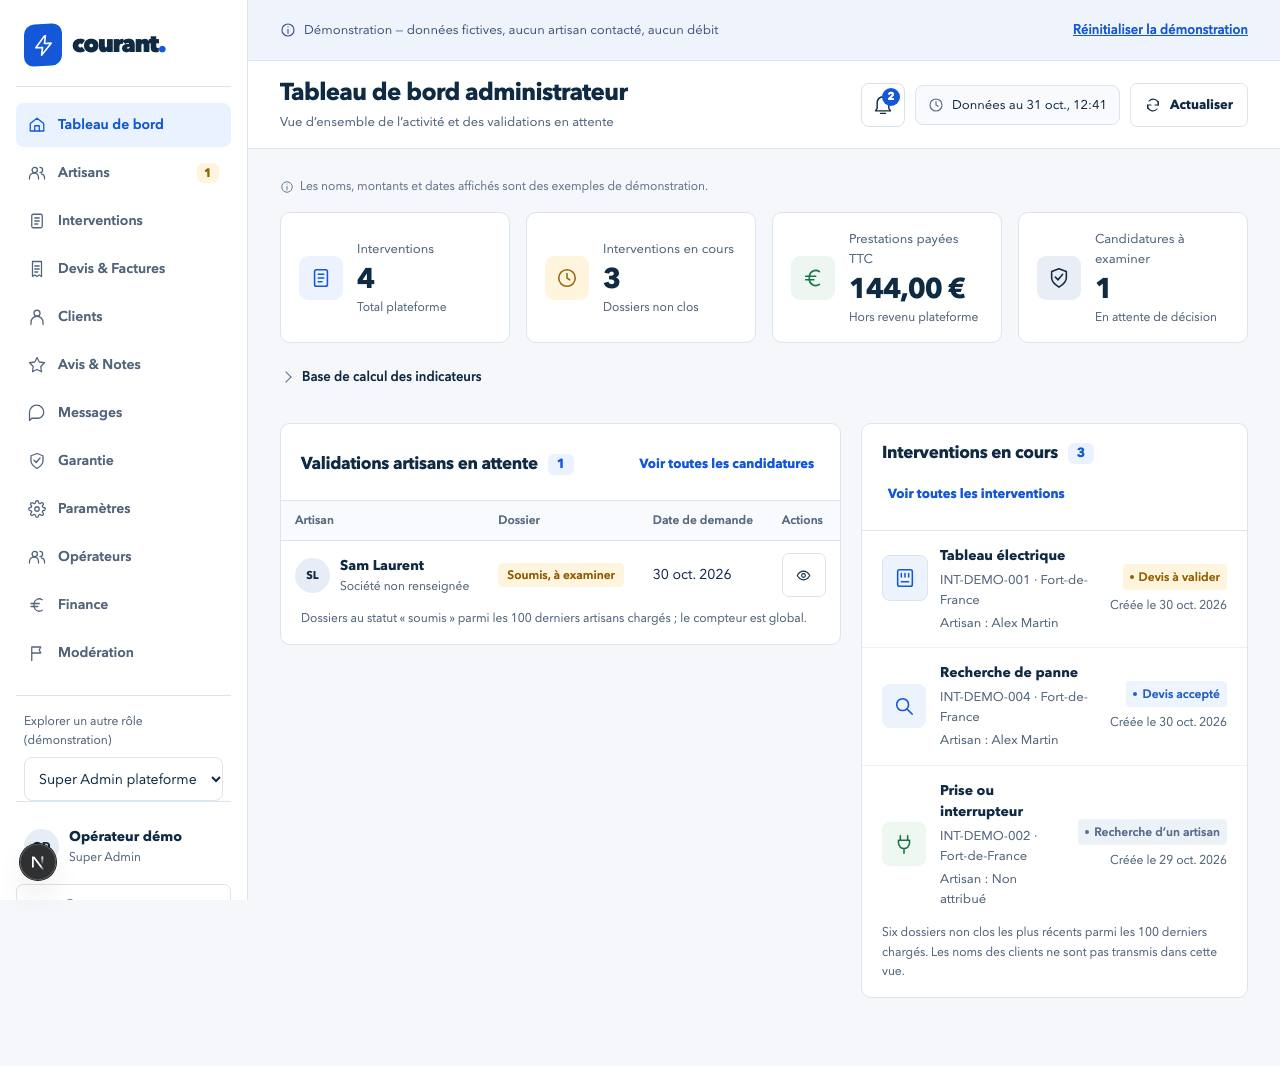
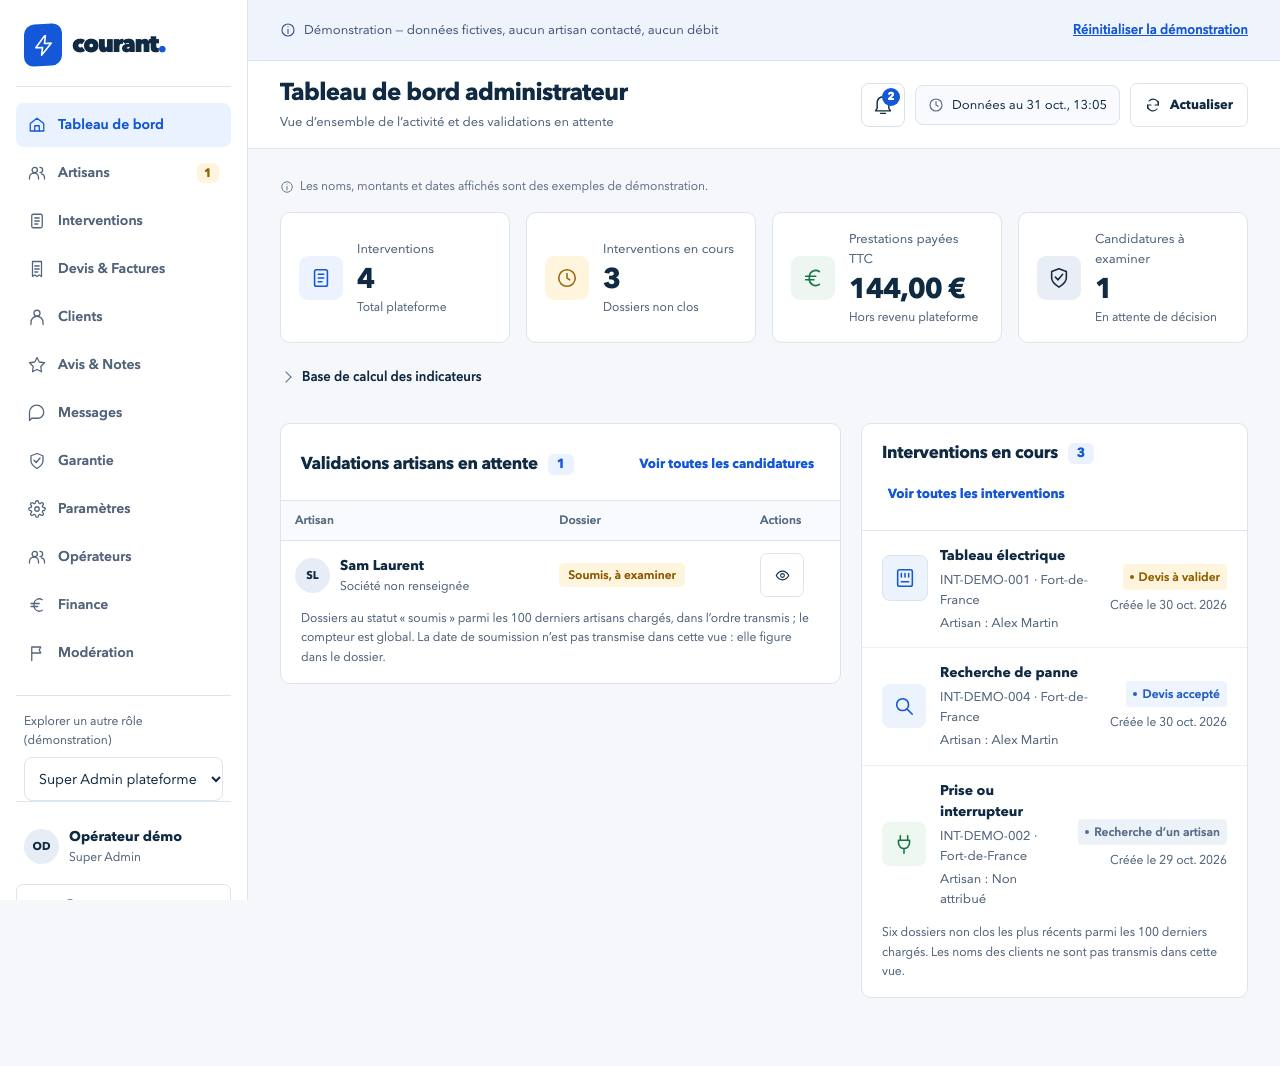
fix(admin): no submission date inferred from the account (ADMIN-DATE-001)
- dashboardRows keeps the server order of submitted applications; the
  sort by created_at (account date, not a submission date) is removed
- "Date de demande" column removed from the validations table as a
  declared M43 adaptation; footer says the list is in server order and
  that the submission date is read in the artisan dossier
- Test asserts server order and no fabricated date (UI suite 91/91);
  after capture 1280; deviation recorded in the contract addendum

diff --git a/components/role/admin-space.tsx b/components/role/admin-space.tsx
@@ -533,7 +533,6 @@ export function AdminSpace({ session }: { session: Session }) {
                   render: (a) => <Person name={a.full_name} sub={a.company_name || "Société non renseignée"} />,
                 },
                 { key: "status", label: "Dossier", render: (a) => applicationTag(a.application_status) },
-                { key: "date", label: "Date de demande", className: styles.nowrap, render: (a) => (a.created_at ? date(a.created_at) : "—") },
                 {
                   key: "actions",
                   label: "Actions",
@@ -557,7 +556,9 @@ export function AdminSpace({ session }: { session: Session }) {
                 </Empty>
               }
             />
-            <Basis>Dossiers au statut « soumis » {loadedNote(o.capabilities.list_limit).replace("chargés", "artisans chargés")} ; le compteur est global.</Basis>
+            <Basis>
+              Dossiers au statut « soumis » {loadedNote(o.capabilities.list_limit).replace("chargés", "artisans chargés")}, dans l’ordre transmis ; le compteur est global. La date de soumission n’est pas transmise dans cette vue : elle figure dans le dossier.
+            </Basis>
           </Panel>
           <Panel
             title="Interventions en cours"

diff --git a/components/role/admin-lists.ts b/components/role/admin-lists.ts
@@ -62,11 +62,13 @@ export function adminKpis(o: AdminOverview): AdminKpi[] {
 
 const byNewest = <T extends { created_at: string }>(a: T, b: T) => Date.parse(b.created_at) - Date.parse(a.created_at);
 
-/** Candidatures soumises (plus récentes d’abord) et six dossiers actifs les plus récents, sur les listes chargées. */
+/**
+ * Candidatures soumises dans l’ordre transmis par le serveur, et six dossiers actifs les plus
+ * récents, sur les listes chargées. La vue d’ensemble ne transmet ni date de soumission ni
+ * `created_at` de candidature : aucun tri ni affichage de date n’est déduit du compte.
+ */
 export function dashboardRows(o: AdminOverview, activeLimit = 6) {
-  const pending = o.artisans
-    .filter((a) => a.application_status === "submitted")
-    .sort((a, b) => Date.parse(b.created_at ?? "") - Date.parse(a.created_at ?? ""));
+  const pending = o.artisans.filter((a) => a.application_status === "submitted");
   const active: Intervention[] = o.interventions
     .filter((i) => ACTIVE_STATUSES.includes(i.status))
     .sort(byNewest)

diff --git a/tests/ui/admin-lists.test.ts b/tests/ui/admin-lists.test.ts
@@ -38,9 +38,12 @@ test("indicateurs : quatre valeurs issues des totaux serveur, notes courtes, auc
   assert.match(kpis[2].basis, /Revenu plateforme : non calculé/);
 });
 
-test("tableau de bord : candidatures soumises triées, six dossiers actifs les plus récents", () => {
+test("tableau de bord : candidatures soumises dans l’ordre serveur (aucun tri par date de compte), six dossiers actifs", () => {
   const rows = dashboardRows(overview);
-  assert.deepEqual(rows.pending.map((a) => a.id), ["a3", "a1"]);
+  // a1 puis a3 : ordre de la réponse serveur conservé, bien que created_at (date du compte) soit plus récent pour a3.
+  assert.deepEqual(rows.pending.map((a) => a.id), ["a1", "a3"]);
+  // Aucune date de soumission n’est fabriquée à partir du compte.
+  assert.ok(rows.pending.every((a) => !("submitted_at" in a)));
   assert.equal(rows.active.length, 6);
   assert.ok(rows.active.every((i) => i.status !== "paid" && i.status !== "cancelled"));
   assert.deepEqual(rows.active.map((i) => i.id).slice(0, 2), ["i9", "i8"]);

diff --git a/docs/CLAUDE_VISUAL_FIDELITY_CONTRACT.md b/docs/CLAUDE_VISUAL_FIDELITY_CONTRACT.md
@@ -409,7 +409,7 @@ bleu `#1457d9` 5,4:1 sur blanc) ; statut jamais porté par la couleur seule (pas
 | Ligne de l’addendum | Fait | Reste / écart |
 | --- | --- | --- |
 | KPI | Quatre cartes compactes et alignées (`adminKpis`, notes courtes sur une ligne), base de calcul complète dans « Base de calcul des indicateurs » (`details`, 44 px) sous la rangée ; 4 colonnes à 1280, 2 à 360 (cartes verticales). | Pas de période ni de tendance (assumé). |
-| Validations | Tableau qui tient dans le panneau à 1280 (cellules 12 × 14 px, date « Date de demande » sur une ligne, société en sous-libellé du nom, action 44 px alignée à droite ; icône seule avec libellé accessible sous 1400 px). Pied « parmi les N derniers artisans chargés ; le compteur est global ». | Pas d’e-mail, de catégorie ni de compteur de documents (assumé). |
+| Validations | Tableau qui tient dans le panneau à 1280 (cellules 12 × 14 px, société en sous-libellé du nom, action 44 px alignée à droite ; icône seule avec libellé accessible sous 1400 px). Pied « parmi les N derniers artisans chargés, dans l’ordre transmis ; le compteur est global ». | Pas d’e-mail, de catégorie ni de compteur de documents (assumé). **Colonne « Date de demande » retirée (ADMIN-DATE-001)** : la vue d’ensemble ne transmet ni date de soumission ni date de candidature — la `created_at` disponible est celle du compte, jamais affichée comme date de demande ni utilisée pour trier ; l’ordre serveur est conservé, la date de soumission se lit dans le dossier artisan. |
 | Interventions en cours | Rangées en deux lignes de méta (« Référence · ville », « Artisan : … ») comme M43, pastille réelle, « Créée le ». | Pas d’échéance ni de nom de client (assumé). |
 | Cibles / responsive | 0 élément interactif < 44 px sur le tableau de bord à 360 et 1280 ; aucun débordement ; outils d’en-tête sur deux lignes à 360. | — |
 
